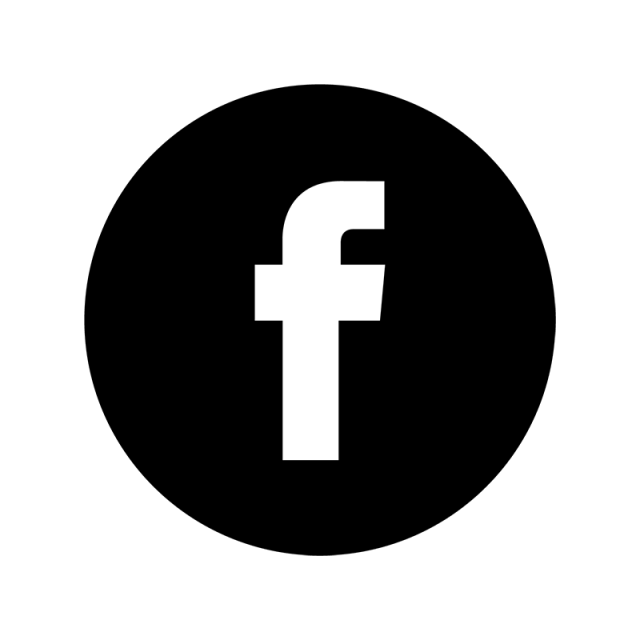
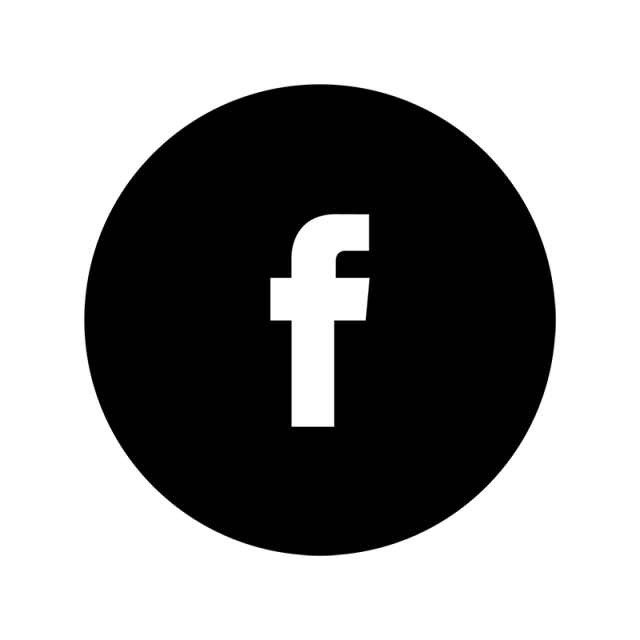
Working links

Changed region(s): [[0.375, 0.2812, 0.625, 0.5], [0.4375, 0.5, 0.5312, 0.7188]]

diff --git a/index.html b/index.html
@@ -45,29 +45,36 @@
                 </section>
                 <section class="flex">
                     <div class="item">
-                        <img src="./img/fb.png" alt="Facebook">
+                        <a href="https://www.facebook.com/erick.matheus4">
+                            <img src="./img/fb.png" alt="Facebook">
+                        </a>
                     </div>
                     <div class="item">
-                        <img src="./img/fb.png" alt="Facebook">
+                        <a href="https://www.instagram.com/rck_math/">
+                            <img src="./img/instagram.png" alt="Instagram">
+                        </a>
                     </div>
                     <div class="item">
-                        <img src="./img/fb.png" alt="Facebook">
+                        <a href="https://github.com/rckmath">
+                            <img src="./img/github.png" alt="Github">
+                        </a>
                     </div>
                     <div class="item">
-                        <img src="./img/fb.png" alt="Facebook">
+                        <a href="https://www.linkedin.com/in/rckmath/">
+                            <img src="./img/linkedin.png" alt="LinkedIn">
+                        </a>
                     </div>
                     <div class="item">
-                        <img src="./img/fb.png" alt="Facebook">
+                        <a href="https://steamcommunity.com/id/BossBR">
+                            <img src="./img/steam.png" alt="Steam">
+                        </a>
                     </div>
                     <div class="item">
-                        <img src="./img/fb.png" alt="Facebook">
+                        <a href="https://www.last.fm/user/xBossK">
+                            <img src="./img/lastfm.png" alt="Last.fm">
+                        </a>
                     </div>
-                    <div class="item">
-                        <img src="./img/fb.png" alt="Facebook">
-                    </div>
-                    <div class="item">
-                        <img src="./img/fb.png" alt="Facebook">
-                    </div>
+
                 </section>
             </div>
         </div>

diff --git a/css/styles.css b/css/styles.css
@@ -128,18 +128,30 @@ img {
     align-content: center;
 }
 
-@media (max-width: 600px){
+.item img {
+    margin: 0 auto;
+    max-width: 75%;
+}
+
+.item img:hover {
+    box-shadow: 0 2px 4px 0 rgba(0, 0, 0, 0.75);
+    transition: 0.15s;
+}
+
+@media (max-width: 500px) {
     .item {
         max-width: 25%;
     }
 }
 
-@media (max-width: 500px){
+@media (max-width: 400px) {
     .item {
-        max-width: 23%;
+        max-width: 24%;
     }
 }
 
-.item img {
-    max-width: 50%;
+@media (max-width: 320px) {
+    .item {
+        max-width: 23%;
+    }
 }
